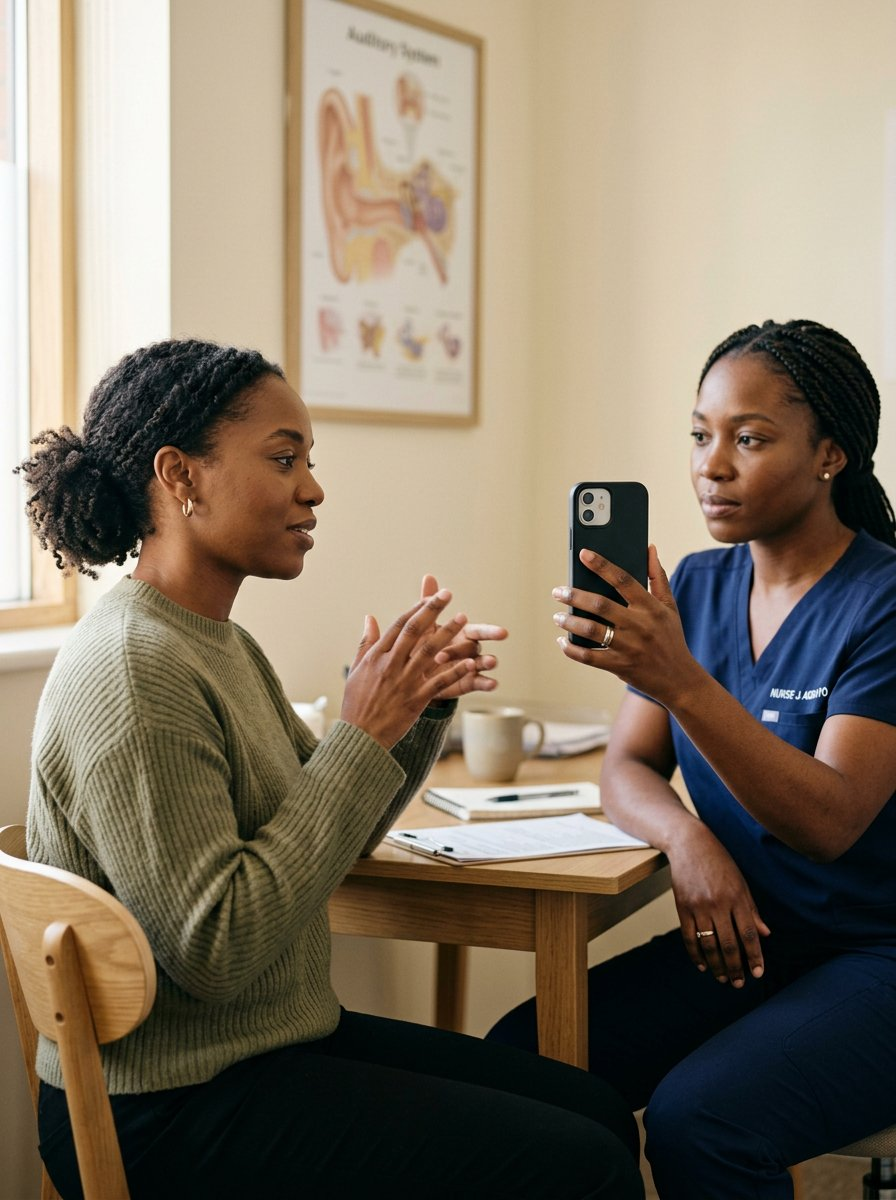
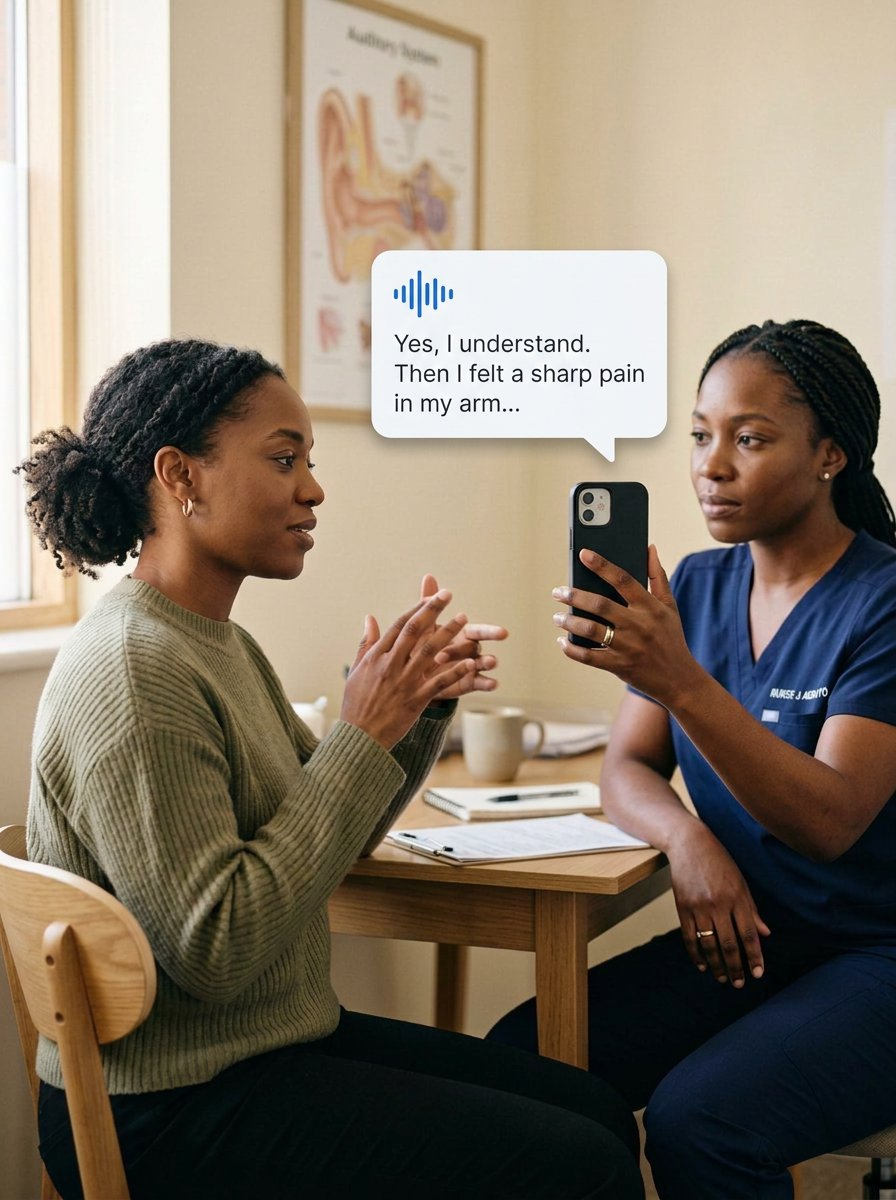
Fix phone orientation and add transcription bubble to portrait card
Sign to Speech card: the phone was held screen-out, so the patient was
facing the display instead of the camera. The rear camera module now
faces the patient and the screen faces the clinician.

Portrait version gains the same transcription bubble as the landscape
one, stacked vertically to suit the narrower frame.

diff --git a/landing/index.html b/landing/index.html
@@ -485,7 +485,7 @@ body { overscroll-behavior-y: none; }
           <div class="card-img-wrap">
             <picture>
               <source media="(max-width: 768px)" srcset="assets/img/feature-sign-to-speech-portrait.jpg">
-              <img src="assets/img/feature-sign-to-speech.jpg" class="card-img" alt="A Deaf patient signing while a nurse records her, the translation appearing on screen">
+              <img src="assets/img/feature-sign-to-speech.jpg" class="card-img" alt="A Deaf patient signing while a nurse records her with the phone's rear camera, her words transcribed into a speech bubble beside them">
             </picture>
           </div>
         </div>
